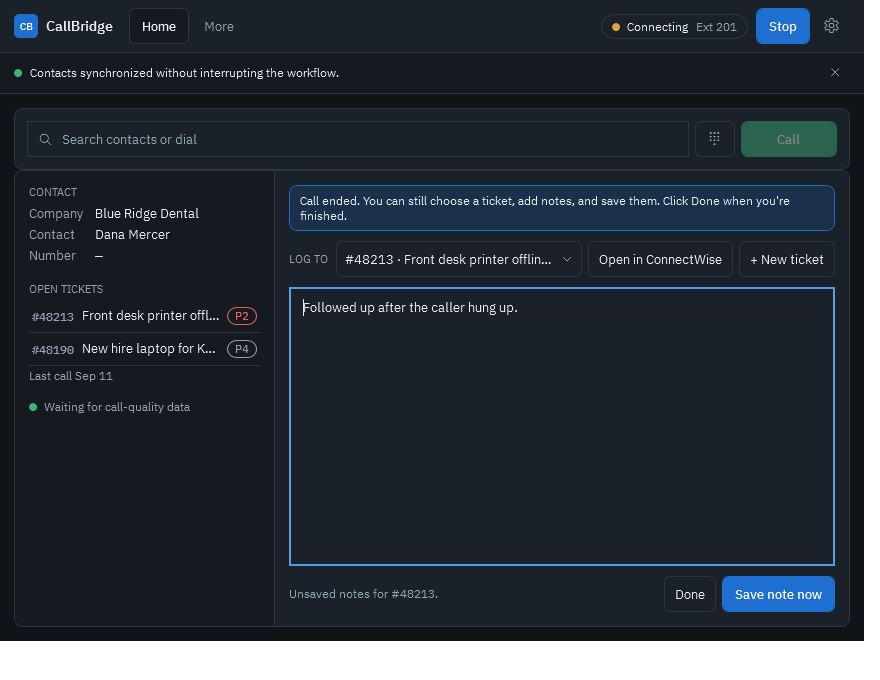
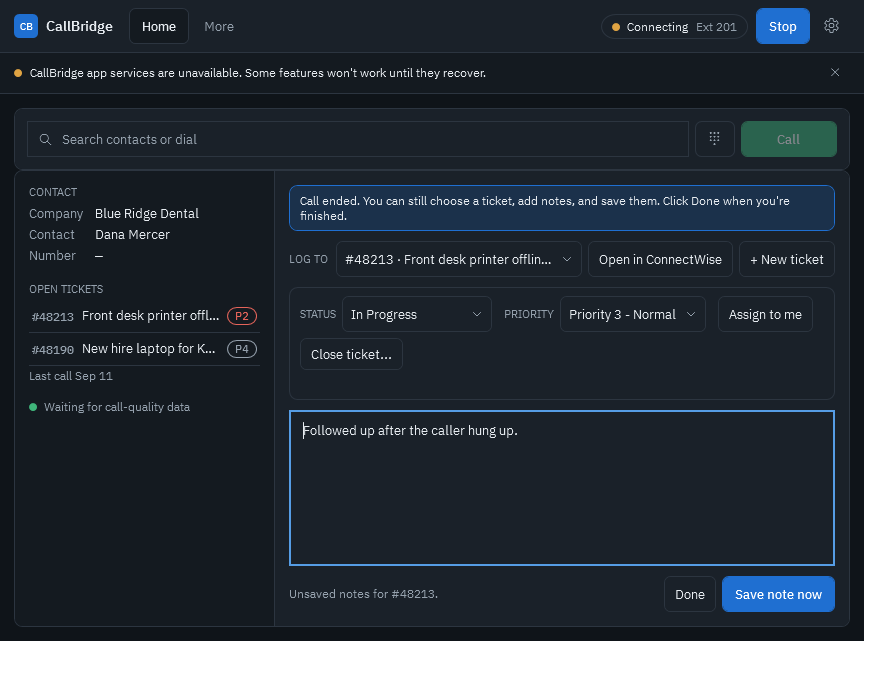
Document ticket status, priority, assign, and close from the call

diff --git a/pages/guide.html b/pages/guide.html
@@ -173,7 +173,7 @@
           <h3 id="psa">ConnectWise PSA</h3>
           <p><strong>In ConnectWise PSA</strong>, create an API member for CallBridge:</p>
           <ol class="step-list">
-            <li><strong>Create the member</strong>System &rarr; Members &rarr; API Members &rarr; <strong>+</strong>. Give it a security role that can read companies, contacts, and service tickets, create tickets and notes, create time entries, and add and edit contacts (used to save callers' numbers).</li>
+            <li><strong>Create the member</strong>System &rarr; Members &rarr; API Members &rarr; <strong>+</strong>. Give it a security role that can read companies, contacts, and service tickets, create and edit service tickets and notes, create time entries, and add and edit contacts (used to save callers' numbers).</li>
             <li><strong>Generate keys</strong>Open the member &rarr; API Keys &rarr; <strong>+</strong>. Copy the <strong>public</strong> and <strong>private</strong> key. The private key is only shown once.</li>
             <li><strong>Find your board ID</strong>Service &rarr; Setup Tables &rarr; Service Boards. Open the board new phone tickets should go to; the number at the end of the page address is its ID.</li>
           </ol>
@@ -268,6 +268,9 @@
                 <tr><td><strong>Finish notes after the call</strong></td><td>When the caller hangs up, the notes panel stays open. Choose a ticket, keep typing, save, then click <strong>Done</strong>. See <a href="#wrap-up">Wrap-up</a>.</td></tr>
                 <tr><td><strong>Save an unknown caller's number</strong></td><td>When a caller isn't recognized, click <strong>Save number to ConnectWise</strong> under their details (or <strong>Save number</strong> on the recent call). Search for the company, pick the contact or create a new one, choose Direct or Mobile, and save. The next call from that number is recognized right away. Needs the PSA connection.</td></tr>
                 <tr><td><strong>Add a note to an older call</strong></td><td>Select the call in <em>Recent calls</em> and click <strong>Add note</strong> to write on one of that company's open tickets.</td></tr>
+                <tr><td><strong>Change a ticket's status or priority</strong></td><td>Pick the ticket in <em>LOG TO</em>. Use the <strong>Status</strong> and <strong>Priority</strong> lists in the ticket bar; changes apply right away.</td></tr>
+                <tr><td><strong>Take ownership</strong></td><td>Click <strong>Assign to me</strong> in the ticket bar (PSA tickets; uses your member ID).</td></tr>
+                <tr><td><strong>Close a ticket</strong></td><td>Click <strong>Close ticket&hellip;</strong>, choose the closed status, confirm the resolution (your call notes are filled in), and close.</td></tr>
                 <tr><td><strong>Create a ticket</strong></td><td>Click <strong>+ New ticket</strong> during the call. For unknown callers, search for the company first.</td></tr>
                 <tr><td><strong>Transfer</strong></td><td><strong>Transfer</strong> &rarr; enter the extension &rarr; <strong>Blind transfer</strong>, or <strong>Consult first</strong> to talk to them before handing off.</td></tr>
                 <tr><td><strong>Park a call</strong></td><td>Click <strong>Park</strong>. The Call parking card on Home shows which slot is busy. Click <strong>Pick up</strong> next to the slot, or dial the slot from any phone.</td></tr>

diff --git a/docs/quick-start.md b/docs/quick-start.md
@@ -225,6 +225,9 @@ time entries are logged under it.
 | **Save an unknown caller's number** | Click **Save number to ConnectWise** under their details, or **Save number** on the recent call. Search for the company, pick the contact or create one, choose Direct or Mobile, and save. Needs the PSA connection. |
 | **Add a note to an older call** | Select the call in *Recent calls* and click **Add note** to write on one of that company's open tickets. |
 | **Finish notes after the call** | When the caller hangs up the notes panel stays open. Choose a ticket, keep typing, save, then click **Done**. See [Wrap-up](#wrap-up-notes-after-the-call-ends). |
+| **Change a ticket's status or priority** | Pick the ticket in *LOG TO*, then use **Status** and **Priority** in the ticket bar. Changes apply right away. |
+| **Take ownership** | Click **Assign to me** in the ticket bar (PSA tickets; uses your member ID). |
+| **Close a ticket** | Click **Close ticket…**, choose the closed status, confirm the resolution (your call notes are filled in), and close. |
 | **Create a ticket** | Click **+ New ticket** during the call. For unknown callers, search for the company first. |
 | **Transfer** | **Transfer** → enter the extension → **Blind transfer**, or **Consult first**. |
 | **Park a call** | Click **Park**. On Home, click **Pick up** next to the busy slot, or dial the slot from any phone. |

diff --git a/README.md b/README.md
@@ -94,6 +94,8 @@ ConnectWise: **[docs/quick-start.md](docs/quick-start.md)** or the
 | Open tickets in the screen pop | ✅ | ✅ |
 | Create a ticket | ✅ | ✅ |
 | Call notes on a ticket | ✅ | ✅ |
+| Change status / priority, close with resolution | ✅ | ✅ |
+| Assign to me | ✅ | Not available |
 | Time entries | ✅ | Saved as a ticket note |
 | Caller matching | All contacts | Company main number and primary contact, plus imported contacts |
 | Open ticket in browser | ✅ | Ticket number shown |
